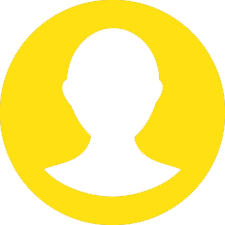
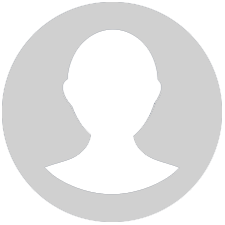
Se completaron los filtros y se cambio los colores de la pagina

diff --git a/src/components/ClientList/ClientList.js b/src/components/ClientList/ClientList.js
@@ -3,16 +3,20 @@ import InventoryList from '../InventoryList/InventoryList'
 import { get } from '../../services';
 import GenericModal from '../Modals/GenericModal';
 import CreateClient from '../CreateForms/CreateClient';
+import LoadingScreen from '../LoadingScreen/LoadingScreen';
 
 const ClientList=(props)=>{
     const [selectedUSer,setSelectedUSer] = useState('');
     const [list,setList] = useState([]);
     const [edit,setEdit] = useState(false);
+    const [isLoading,setIsLoading] = useState(false);
     const [modalShow, setModalShow] = React.useState(false);
 
     useEffect(()=>{
         async function getList(){
+            setIsLoading(true);
             const clients = await get("customers");
+            setIsLoading(false);
             setList(clients.data);
         }
         getList();
@@ -24,13 +28,13 @@ const ClientList=(props)=>{
         <div className="row">
                 <div className="col-md-6">
                     <h2>{props.title}</h2>
-                    <button className="btn btn-dark" id="register" onClick={()=>setModalShow(true)}>Registrar</button>
+                    <button className="btn btn-dark" id="register" onClick={()=>{setModalShow(true);setEdit(false)}}>Registrar</button>
                 </div>
                 <div className="col-md-6">
                 </div>
             </div>
             <hr/>
-           <InventoryList setModal={() => {setModalShow(true);setEdit(false)}} title={props.title}>
+            {isLoading? <LoadingScreen/>:  <InventoryList setModal={() => {setModalShow(true);setEdit(false)}} title={props.title}>
                 <thead className="thead-light">
                          <tr>
                          <th>Editar</th>
@@ -62,7 +66,8 @@ const ClientList=(props)=>{
                          </tr>
                          )}
                      </tbody>
-           </InventoryList>
+           </InventoryList>}
+         
         </div>
 
             <GenericModal

diff --git a/src/components/ProductList/ProductList.js b/src/components/ProductList/ProductList.js
@@ -197,9 +197,9 @@ const ProductList=(props)=>{
                             {/* <th>ID</th> */}
                             {/* <th>Equipo</th> */}
                             <th><div className="dropdown">
-                                <button className="btn btn-secondary dropdown-toggle" type="button" id="dropdownMenu2" data-toggle="dropdown" aria-haspopup="true" aria-expanded="false" >
+                                <a className="dropdown-toggle" type="button" id="dropdownMenu2" data-toggle="dropdown" aria-haspopup="true" aria-expanded="false" >
                                  Modelo
-                                </button>
+                                </a>
                                      <div className="dropdown-menu" aria-labelledby="dropdownMenu2">
                                      <button className="dropdown-item" type="button" onClick={()=>filtrar('todos')} >Todos</button>
                                         {modelList.map((model)=>
@@ -213,9 +213,9 @@ const ProductList=(props)=>{
                             </th> 
                            
                             <th><div className="dropdown">
-                                <button className="btn btn-secondary dropdown-toggle" type="button" id="dropdownMenu2" data-toggle="dropdown" aria-haspopup="true" aria-expanded="false" >
+                                <a className="dropdown-toggle" type="button" id="dropdownMenu2" data-toggle="dropdown" aria-haspopup="true" aria-expanded="false" >
                                  Marca
-                                </button>
+                                </a>
                                      <div className="dropdown-menu" aria-labelledby="dropdownMenu2">
                                      <button className="dropdown-item" type="button" onClick={()=>filtrarMarca('todos')} >Todos</button>
                                         {brandList.map((brand)=>

diff --git a/src/services/index.js b/src/services/index.js
@@ -3,7 +3,7 @@ import axios from 'axios';
 export async function get(controllerName) {
     try {
         const response = await axios({
-            url: `http://nuxway.us-west-2.elasticbeanstalk.com/api/${controllerName}`,
+            url: `https://localhost:44347/api/${controllerName}`,
             method: 'GET'
         })
         //console.log(response)
@@ -16,7 +16,7 @@ export async function get(controllerName) {
 export async function getById(controllerName,userId) {
     try {
         const response = await axios({
-            url: `http://nuxway.us-west-2.elasticbeanstalk.com/api/${controllerName}/${userId}`,
+            url: `https://localhost:44347/api/${controllerName}/${userId}`,
             method: 'GET'
         })
         //console.log(response)
@@ -28,7 +28,7 @@ export async function getById(controllerName,userId) {
 
 export async function post(type,data) {
     try {
-        const response = await axios.post(`http://nuxway.us-west-2.elasticbeanstalk.com/api/${type}`,data)
+        const response = await axios.post(`https://localhost:44347/api/${type}`,data)
         console.log(response)
         return response
     } catch (error) {
@@ -38,10 +38,20 @@ export async function post(type,data) {
 
 export async function put(type,data,id) {
     try {
-        const response = await axios.put(`http://nuxway.us-west-2.elasticbeanstalk.com/api/${type}/${id}`,data)
+        const response = await axios.put(`https://localhost:44347/api/${type}/${id}`,data)
         console.log(response)
         return response
     } catch (error) {
         console.log(error)
+    }
+}
+
+export async function deleteCustomer(type,id){
+    try {
+        const response = await axios.delete(`http://nuxway.us-west-2.elasticbeanstalk.com/api/${type}/${id}`);
+        return response;
+        
+    } catch (error) {
+        console.log(error);
     }
 }

diff --git a/public/index.html b/public/index.html
@@ -2,7 +2,7 @@
 <html lang="en">
   <head>
     <meta charset="utf-8" />
-    <link rel="icon" href="%PUBLIC_URL%/favicon.ico" />
+    <link rel="icon" href="%PUBLIC_URL%/nuxway-icon.png" />
     <meta name="viewport" content="width=device-width, initial-scale=1" />
     <meta name="theme-color" content="#000000" />
     <meta
@@ -13,7 +13,7 @@
   rel="stylesheet"
   href="https://fonts.googleapis.com/icon?family=Material+Icons"
 />
-    <link rel="apple-touch-icon" href="%PUBLIC_URL%/logo192.png" />
+    <link rel="apple-touch-icon" href="%PUBLIC_URL%/nuxway-icon.png" />
     <!--
       manifest.json provides metadata used when your web app is installed on a
       user's mobile device or desktop. See https://developers.google.com/web/fundamentals/web-app-manifest/
@@ -28,7 +28,7 @@
       work correctly both with client-side routing and a non-root public URL.
       Learn how to configure a non-root public URL by running `npm run build`.
     -->
-    <title>React App</title>
+    <title>Nuxway Technology | Inventario</title>
   </head>
   <body>
     <noscript>You need to enable JavaScript to run this app.</noscript>

diff --git a/src/components/NavBar/NavBar.js b/src/components/NavBar/NavBar.js
@@ -5,9 +5,9 @@ import {Link} from 'react-router-dom';
 const NavBar = ()=>{
     return(
         <>
-        <nav className="navbar navbar-expand-lg navbar-light bg-light sticky-top">
+        <nav className="navbar navbar-expand-lg navbar-dark bg-dark sticky-top">
             <Link className="navbar-brand" to="/">
-                <img id="logo-navbar" src={require('../../assets/logonuxway2.webp')} alt="logo-nuxway"/>
+                <img id="logo-navbar" src={require('../../assets/logonuxway3.png')} alt="logo-nuxway"/>
             </Link>
             <button className="navbar-toggler" type="button" data-toggle="collapse" data-target="#navbarNav" aria-controls="navbarNav" aria-expanded="false" aria-label="Toggle navigation">
             <span className="navbar-toggler-icon"></span>

diff --git a/src/components/Home/Home.css b/src/components/Home/Home.css
@@ -4,7 +4,8 @@
 
 #home-title{
     text-transform: uppercase;
-    color: rgb(255, 208, 0);
+    color: #f39700;
+    font-size: 5vw;
 }
 h3{
     text-transform: capitalize;
@@ -27,6 +28,10 @@ img{
 #subviewButton{
     width: 150px;
     border-radius: 500px !important;
+    background-color: #f39700;
+}
+#subview h3{
+    color:#444444;
 }
 
 @media(max-width:769px){

diff --git a/src/components/NavBar/NavBar.css b/src/components/NavBar/NavBar.css
@@ -1,3 +1,4 @@
 #logo-navbar{
     width: 120px;
+    margin-top: 0px !important;
 }
